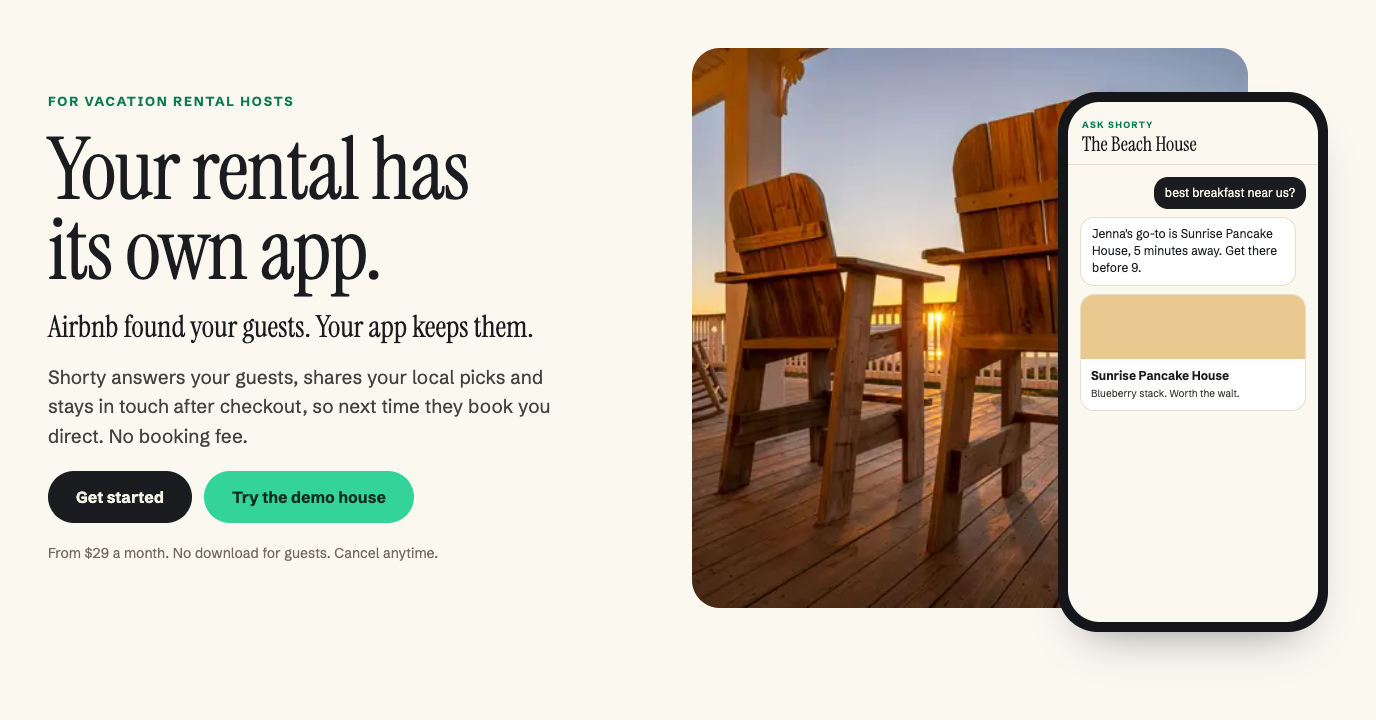
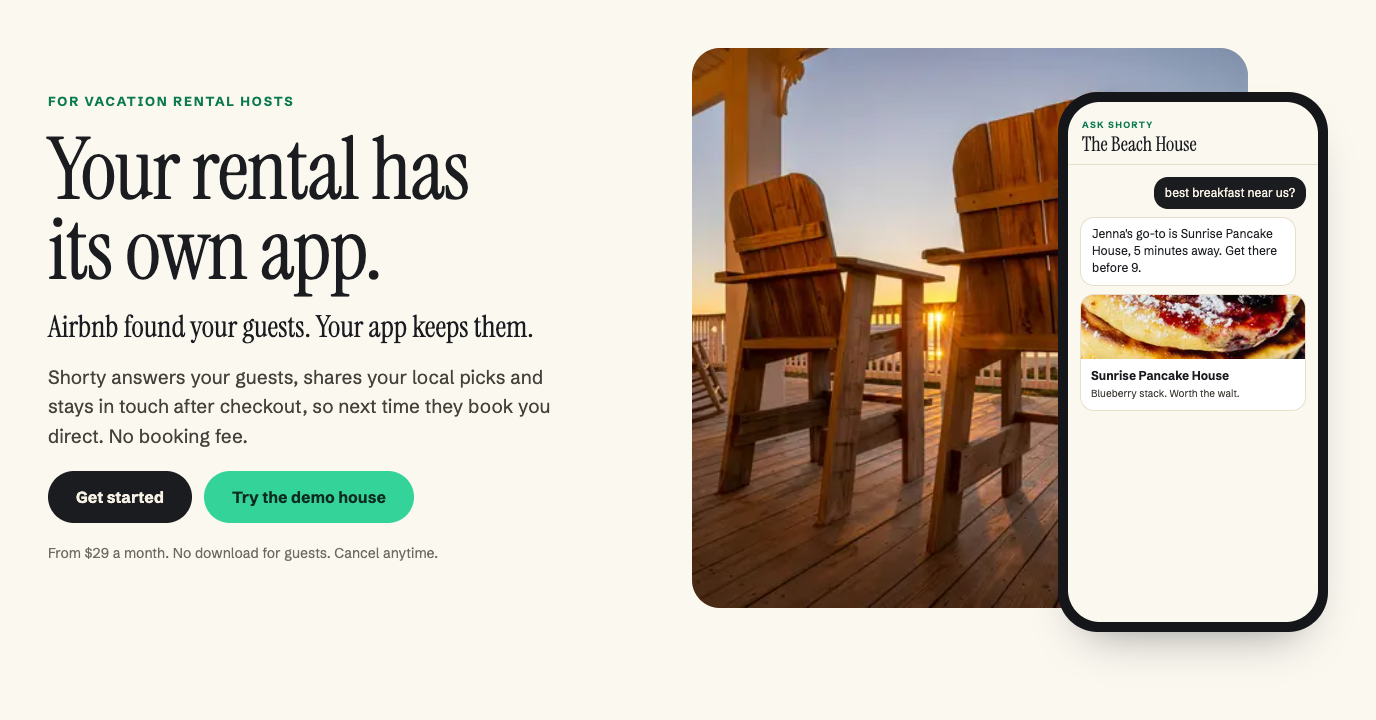
/rentals: real photos on the tacos, bowling and pancakes cards; door-code screen gets the Wi-Fi name and password and a Text your host card

Changed region(s): [[0.7812, 0.3972, 0.9688, 0.5194]]

diff --git a/src/components/rentals/RentalsV3.tsx b/src/components/rentals/RentalsV3.tsx
@@ -196,7 +196,16 @@ export default function RentalsV3() {
               <span style={{ fontSize: "9px", fontWeight: 700, letterSpacing: "0.14em", color: "#34d399" }}>YOUR STAY</span>
               <span style={{ fontSize: "9px", color: "#c9c3b3" }}>FRONT DOOR</span>
               <span style={{ fontFamily: SERIF_V, fontSize: "26px", letterSpacing: "0.08em" }}>4821</span>
-              <span style={{ fontSize: "10px", color: "#c9c3b3" }}>Wi-Fi: BeachHouse_Guest</span>
+              <span style={{ fontSize: "9px", color: "#c9c3b3", marginTop: "4px" }}>WI-FI</span>
+              <span style={{ fontSize: "11px", color: "#f6f1e4" }}>BeachHouse_Guest</span>
+              <span style={{ fontFamily: SERIF_V, fontSize: "18px", letterSpacing: "0.06em" }}>sandcastle24</span>
+            </div>
+            <div style={{ margin: "10px 14px 0", padding: "10px 12px", borderRadius: "14px", background: "#d7f5e8", display: "flex", alignItems: "center", justifyContent: "space-between", gap: "8px" }}>
+              <span style={{ display: "flex", flexDirection: "column", gap: "1px" }}>
+                <span style={{ fontSize: "12px", fontWeight: 700, color: "#1a1c20" }}>Text your host</span>
+                <span style={{ fontSize: "10px", color: "#45423c" }}>Jenna replies fast</span>
+              </span>
+              <svg aria-hidden="true" width="18" height="18" viewBox="0 0 24 24" fill="none" stroke="#0b7a50" strokeWidth="2" strokeLinecap="round" strokeLinejoin="round"><path d="M4 5h16v11H9l-5 4z" /></svg>
             </div>
           </div>
           <div className="hs hs2" style={{ padding: "18px 14px", boxSizing: "border-box", gap: "10px" }}>
@@ -214,7 +223,7 @@ export default function RentalsV3() {
               </div>
             </div>
             <div style={{ borderRadius: "14px", background: "#ffffff", border: "1px solid #e6dfcc", overflow: "hidden" }}>
-              <div style={{ position: "relative", height: "64px", background: "#f0d9c4" }}></div>
+              <div style={{ position: "relative", height: "64px", background: "#f0d9c4" }}><Image src="/rentals/rentals-pick-tacos.jpg" alt="Fish tacos on a wooden board" fill sizes="250px" style={{ objectFit: "cover" }} /></div>
               <div style={{ padding: "8px 10px 10px", display: "flex", flexDirection: "column", gap: "2px" }}>
                 <span style={{ fontSize: "12px", fontWeight: 700 }}>Low Tide Tacos</span>
                 <span style={{ fontSize: "10px", lineHeight: 1.35, color: "#45423c" }}>Our favorite. Check where the truck is tonight.</span>
@@ -235,7 +244,7 @@ export default function RentalsV3() {
               </div>
             </div>
             <div style={{ borderRadius: "14px", background: "#ffffff", border: "1px solid #e6dfcc", overflow: "hidden" }}>
-              <div style={{ position: "relative", height: "64px", background: "#d7f5e8" }}></div>
+              <div style={{ position: "relative", height: "64px", background: "#d7f5e8" }}><Image src="/rentals/rentals-pick-bowling.jpg" alt="Bowling lane with pins" fill sizes="250px" style={{ objectFit: "cover", objectPosition: "50% 22%" }} /></div>
               <div style={{ padding: "8px 10px 10px", display: "flex", flexDirection: "column", gap: "2px" }}>
                 <span style={{ fontSize: "12px", fontWeight: 700 }}>Bowling downtown</span>
                 <span style={{ fontSize: "10px", lineHeight: 1.35, color: "#45423c" }}>Cheap, close, and the kids love it.</span>
@@ -251,7 +260,7 @@ export default function RentalsV3() {
               <div style={{ alignSelf: "flex-end", maxWidth: "75%", padding: "8px 11px", borderRadius: "14px", background: "#1a1c20", color: "#f6f1e4", fontSize: "12px", lineHeight: 1.4 }}>best breakfast near us?</div>
               <div style={{ alignSelf: "flex-start", maxWidth: "85%", padding: "8px 11px", borderRadius: "14px", background: "#ffffff", border: "1px solid #e6dfcc", fontSize: "12px", lineHeight: 1.4 }}>Jenna&apos;s go-to is Sunrise Pancake House, 5 minutes away. Get there before 9.</div>
               <div style={{ borderRadius: "14px", background: "#ffffff", border: "1px solid #e6dfcc", overflow: "hidden" }}>
-              <div style={{ position: "relative", height: "64px", background: "#e9c98f" }}></div>
+              <div style={{ position: "relative", height: "64px", background: "#e9c98f" }}><Image src="/rentals/rentals-pick-pancakes.jpg" alt="Stack of blueberry pancakes" fill sizes="250px" style={{ objectFit: "cover" }} /></div>
               <div style={{ padding: "8px 10px 10px", display: "flex", flexDirection: "column", gap: "2px" }}>
                 <span style={{ fontSize: "12px", fontWeight: 700 }}>Sunrise Pancake House</span>
                 <span style={{ fontSize: "10px", lineHeight: 1.35, color: "#45423c" }}>Blueberry stack. Worth the wait.</span>

diff --git a/docs/design/rentals-v3/photo-credits.md b/docs/design/rentals-v3/photo-credits.md
@@ -12,6 +12,11 @@ All from Unsplash (Unsplash License) or Pexels (Pexels License): free for commer
 | "The aquarium" card | rentals-pick-aquarium.jpg | Ashley Nunkissor | https://www.pexels.com/photo/loggerhead-sea-turtle-in-durban-aquarium-31418185/ | Pexels License |
 | Instagram post | rentals-social-deck.jpg | Sunira Moses | https://unsplash.com/photos/lUwaTF6BwIo | Unsplash License |
 | Instagram avatar | rentals-social-avatar.jpg | Phil Hearing | https://unsplash.com/photos/teal-wooden-door-with-sunlight-casting-shadows-05buwQcykFc | Unsplash License |
+| Phone screen 2, "Low Tide Tacos" card | rentals-pick-tacos.jpg | Amar | https://www.pexels.com/photo/tacos-on-table-18032209/ | Pexels License |
+| Phone screen 3, "Bowling downtown" card | rentals-pick-bowling.jpg | Pavel Danilyuk | https://www.pexels.com/photo/bowling-pins-arranged-at-a-bowling-alley-7429597/ | Pexels License |
+| Phone screen 4, "Sunrise Pancake House" card | rentals-pick-pancakes.jpg | Wendy Wei | https://www.pexels.com/photo/photograph-of-pancakes-with-blueberries-12326493/ | Pexels License |
 
 Notes: the hero and boardwalk photos were not shot in the Carolinas (hero: Surfside Beach, Texas; boardwalk: Portugal). They read as coastal, but they are not Carolina places.
 The grill photo is a shrimp and fries basket on a wooden table, not a waterfront deck at sunset (none found that met every rule).
+
+The tacos photo is fish tacos, not the truck's own food. The bowling photo is a generic lane, not a Myrtle Beach alley.
